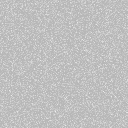
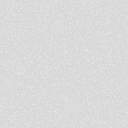
style: near-black filmic ground, dip-to-black scene cuts, lighter grain
Ground moves from warm charcoal to #0c0c0b under a warm key-light bloom at
the page top and a fixed lens vignette. Cut bands become a dip-to-black
gradient so the scene label no longer sits on a hard slab. Grain regenerated
around the darker base at about a third less weight. OG card and favicon
follow the new ground.

diff --git a/app/globals.css b/app/globals.css
@@ -1,23 +1,27 @@
 @import "tailwindcss";
 
 :root {
-  --ground: #171716;
+  --ground: #0c0c0b;
   --ink: #ecebe6;
   --mute: #8f8e89;
   --line: #2a2a28;
   --line-2: #3a3a37;
-  --panel: #0f0f0e;
+  --panel: #121211;
   --black: #000;
   --ease: cubic-bezier(0.77, 0, 0.18, 1);
   color-scheme: dark;
 }
 
 html {
-  background: var(--ground);
+  /* Filmic ground: grain over a warm key-light bloom at the top of the page, falling to near-black */
+  background:
+    url("/grain.png") repeat,
+    radial-gradient(1400px 760px at 50% -120px, #1b1510 0%, rgba(27, 21, 16, 0) 70%),
+    var(--ground);
 }
 
 body {
-  background: url("/grain.png") repeat, var(--ground);
+  position: relative;
   color: var(--ink);
   font-family: var(--font-sans), system-ui, sans-serif;
   font-weight: 300;
@@ -286,4 +290,19 @@ html.js [data-reveal-frame].in .still {
     flex-basis: 22px;
     transform: rotate(90deg);
   }
+}
+
+/* Lens vignette: fixed to the viewport, painted beneath content */
+body::before {
+  content: "";
+  position: fixed;
+  inset: 0;
+  z-index: -1;
+  pointer-events: none;
+  background: radial-gradient(ellipse 85% 75% at 50% 50%, rgba(0, 0, 0, 0) 55%, rgba(0, 0, 0, 0.55) 100%);
+}
+
+/* Scene cut: a dip to black that fades in and out of the page instead of a hard slab */
+.cut-band {
+  background: linear-gradient(180deg, rgba(0, 0, 0, 0) 0%, var(--black) 32%, var(--black) 68%, rgba(0, 0, 0, 0) 100%);
 }

diff --git a/components/CutBand.tsx b/components/CutBand.tsx
@@ -1,7 +1,7 @@
 // A full-width black band between scenes. The label is the section's heading.
 export function CutBand({ label }: { label: string }) {
   return (
-    <div className="flex h-[180px] w-full items-center justify-center bg-[var(--black)]">
+    <div className="cut-band flex h-[240px] w-full items-center justify-center">
       <h2 className="mono m-0" data-reveal="">
         {label}
       </h2>

diff --git a/lib/og.tsx b/lib/og.tsx
@@ -25,7 +25,7 @@ export async function ogCard({ slate, title, footer }: { slate: string; title: s
           flexDirection: "column",
           justifyContent: "space-between",
           padding: "56px 64px",
-          background: "#171716",
+          background: "linear-gradient(180deg, #17120d 0%, #0c0c0b 55%)",
           color: "#ecebe6",
         }}
       >

diff --git a/docs/superpowers/specs/2026-09-05-portfolio-design.md b/docs/superpowers/specs/2026-09-05-portfolio-design.md
@@ -19,7 +19,7 @@ Goals, in priority order: credibility and a brand that can grow for a career, th
 | Cinema level | Film grammar, not film. No video hero. Videos only in After hours |
 | Hero framing | Title card (option A), rebuilt in a narrow column |
 | Layout | 620px text column, media frames break out to 800px |
-| Ground | Warm charcoal `#171716`. Warm paper is a possible future light theme, not v1 |
+| Ground | Near-black `#0c0c0b` with a filmic gradient and vignette. Warm paper is a possible future light theme, not v1 |
 | Type | EB Garamond titles and big numbers, Geist body and UI, JetBrains Mono slates. No italics |
 | Documentary devices | Lower-third name card, subtitles inside frames, archival captions on frames |
 | Redaction | Black bars over confidential client names |
@@ -72,12 +72,12 @@ Same for all four, depth varies.
 
 | Token | Value | Use |
 |---|---|---|
-| `--ground` | `#171716` | page background |
+| `--ground` | `#0c0c0b` | page background, under a warm key-light bloom at the page top and a fixed lens vignette (changed from `#171716` after the first build; the black cut bands contrasted too hard) |
 | `--ink` | `#ecebe6` | primary text |
 | `--mute` | `#8f8e89` | secondary text, slates, captions (5.5:1 on ground, passes AA) |
 | `--line` | `#2a2a28` | hairlines |
 | `--line-2` | `#3a3a37` | borders on marks and nodes |
-| `--panel` | `#0f0f0e` | diagram panel background |
+| `--panel` | `#121211` | diagram panel background |
 | `--black` | `#000000` | letterbox bars, redaction bars, cut bands, cut overlay. Nowhere else |
 
 All tokens are CSS custom properties on `:root` so a second theme (warm paper) can be added later by redefining them.

diff --git a/PRODUCT.md b/PRODUCT.md
@@ -55,7 +55,7 @@ It exists to prove his AI work is production-grade: deployed, used by real peopl
 
 - Name: Wilson De Torres. Mark: WDT. Domain: wilsondetorres.com. Pronouns he/him.
 - Voice: direct, short, funny, occasionally blunt in a Filipino way. No fluff, no buzzwords, no fake humility. Professional but not corporate. Cringe-sensitive: when in doubt, cut.
-- Volunteered binding visual constraint, recorded without expansion: dark but not pure black (warm charcoal chosen 2026-09-05), minimal, generous negative space, good animation and visuals. Narrow centered text column with wider break-out media frames. Warm paper is a possible future light mode, not in v1. "Film grammar, not film": cinema as design language, not a video hero. Dislikes loud and generic.
+- Volunteered binding visual constraint, recorded without expansion: near-black #0c0c0b with a filmic treatment: warm key-light bloom at the top, fixed lens vignette, grain (changed from warm charcoal on 2026-09-05 after seeing the build, because the black cut bands contrasted too hard), minimal, generous negative space, good animation and visuals. Narrow centered text column with wider break-out media frames. Warm paper is a possible future light mode, not in v1. "Film grammar, not film": cinema as design language, not a video hero. Dislikes loud and generic.
 - Working hero line in his voice, pending a copy round: "I build AI that has to work on a Monday."
 
 ## Evidence on Hand
